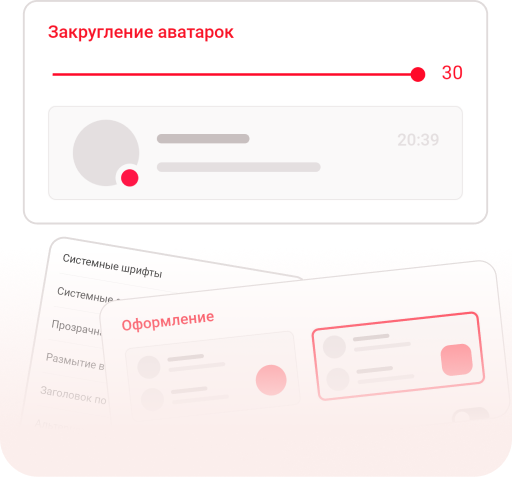
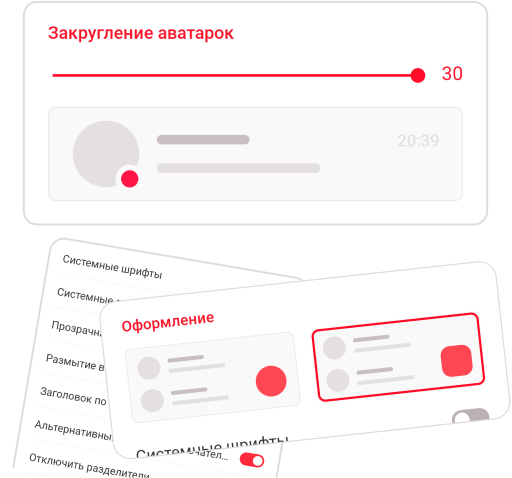
Fix weird feature carousel cutoff (not fully)
I fucking hate overflow rendering, thanks

diff --git a/src/app/[locale]/(composited)/(home)/_components/features-overview.tsx b/src/app/[locale]/(composited)/(home)/_components/features-overview.tsx
@@ -75,13 +75,14 @@ export default function FeaturesOverview({features, className, smoothnessCoeffic
                 ))}
                 <div className="min-w-full h-full" />
             </div>
-            <div className="flex flex-row overflow-hidden px-6 lg:px-10 flex-1" ref={contents}>
+            <div className="flex flex-row overflow-hidden px-6 lg:px-10 flex-1 gap-14" ref={contents}>
                 {features.map(({content}, i) => (
                     <div key={i} className="min-w-full">
                         {content}
                     </div>
                 ))}
             </div>
+            <div className="absolute inset-x-0 bottom-0 top-autp w-full h-48 bg-gradient-to-t from-primary-100 to-transparent pointer-events-none rounded-b-3xl" />
             <div className="absolute flex flex-row gap-2 p-3 rounded-full mx-auto bg-neutral-900 bottom-8 lg:-bottom-16 w-fit left-1/2 -translate-x-1/2">
                 {features.map((_, i) => (
                     <button
